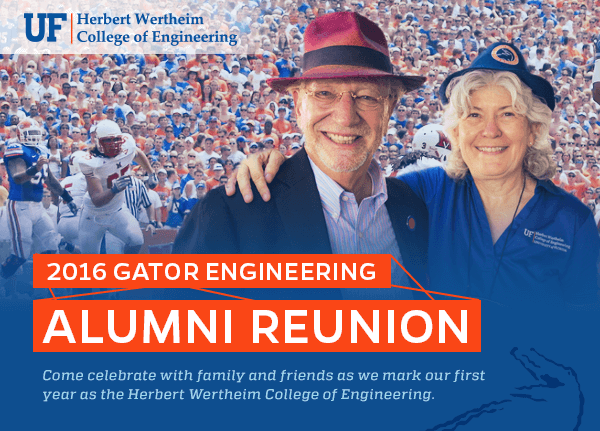
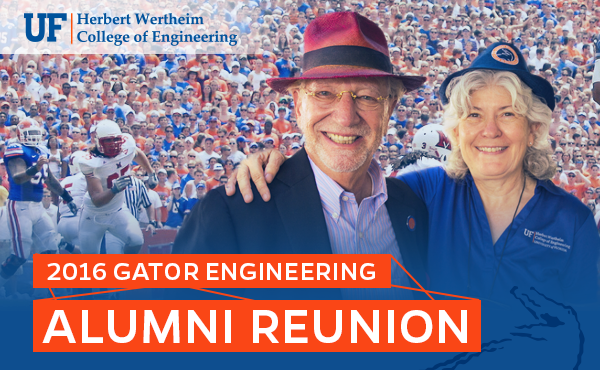
reunion eblast after heather's edits

diff --git a/reunion2016/reunion1-inlined.html b/reunion2016/reunion1-inlined.html
@@ -52,11 +52,11 @@
 			text-decoration: none;
 		}
 		.header1 {
-			padding: 9px 0px 9px 0px;
+			padding: 0px 0px 9px 0px;
 			color:#00529b;
 			font-family:Helvetica, Arial, sans-serif;
-			font-size:42px; 
-			line-height:48px;
+			font-size:48px; 
+			line-height:52px;
 			font-weight:bold;
 		}
 		.header2 {
@@ -157,7 +157,7 @@
 				display:none;
 			}
 			.content-container {
-				padding: 18px 9px;
+				padding: 18px 18px;
 			}
 		 	.content {
 		 		max-width:600px !important;
@@ -167,12 +167,12 @@
 				padding-right:0 !important;
 		 	}
 		 	.header1 {
-		 		font-size:18px;
-		 		line-height:22px;
+		 		font-size:28px;
+		 		line-height:32px;
 		 	}
 		 	.header2 {
-		 		font-size:16px;
-				line-height:20px;
+		 		font-size:20px;
+				line-height:24px;
 		 	}
 		 	.column-content {
 				max-width:480px !important;
@@ -205,29 +205,29 @@
 					</tr>
 					<tr>
 						<td class="img" bgcolor="#FFFFFF" style="padding-top: 0;padding-left: 0;padding-bottom: 0;padding-right: 0;font-family: Helvetica, Arial, sans-serif;font-size: 12px;">
-							<a href="https://www.eng.ufl.edu/news-events/events/gator-engineering-alumni-reunion/" title="2016 Gator Engineering Alumni Reunion" target="_blank" style="color: #fa4616;"><img src="https://www.eng.ufl.edu/eblasts/reunion2016/images/reunion1-header-img.png" align="left" alt="2016 Gator Engineering Alumni Reunion - Come celebrate with family and friends as we mark our first year as the Herbert Wertheim College of Engineering." width="600" height="431" border="0" class="header-image" style="height: auto;display: block;margin: 0;padding: 0;border: 0;max-width: 600px;vertical-align: bottom;outline: none;text-decoration: none;"></a>
+							<a href="https://www.eng.ufl.edu/news-events/events/gator-engineering-alumni-reunion/" title="2016 Gator Engineering Alumni Reunion" target="_blank" style="color: #fa4616;"><img src="https://www.eng.ufl.edu/eblasts/reunion2016/images/reunion1-header-img.png" align="left" alt="2016 Gator Engineering Alumni Reunion - Come celebrate with family and friends as we mark our first year as the Herbert Wertheim College of Engineering." width="600" height="379" border="0" class="header-image" style="height: auto;display: block;margin: 0;padding: 0;border: 0;max-width: 600px;vertical-align: bottom;outline: none;text-decoration: none;"></a>
 						</td>
 					</tr>
 					<tr>
 						<td class="content-container" bgcolor="#FFFFFF" style="padding-top: 0;padding-left: 0;padding-bottom: 0;padding-right: 0;padding: 18px 36px 18px 36px;">
 							<table border="0" width="100%" cellpadding="0" cellspacing="0" style="border-collapse:collapse;">
 								<tr>
-									<td class="header1" style="padding-top: 0;padding-left: 0;padding-bottom: 0;padding-right: 0;padding: 9px 0px 9px 0px;color: #00529b;font-family: Helvetica, Arial, sans-serif;font-size: 42px;line-height: 48px;font-weight: bold;">
+									<td class="header1" style="padding-top: 0;padding-left: 0;padding-bottom: 0;padding-right: 0;padding: 0px 0px 9px 0px;color: #00529b;font-family: Helvetica, Arial, sans-serif;font-size: 48px;line-height: 52px;font-weight: bold;">
 										OCTOBER 15, 2016
 									</td>
 								</tr>
 								<tr>
 									<td class="header2" style="padding-top: 0;padding-left: 0;padding-bottom: 0;padding-right: 0;padding: 0px 0px 9px 0px;color: #00529b;font-family: Helvetica, Arial, sans-serif;font-size: 19px;line-height: 24px;font-weight: bold;">
-										UF vs. Missouri Homecoming Football Game Day<br>
-										Limited football and BBQ ticket packages available.
+										UF vs. Missouri &ndash; Homecoming<br>
+										3 hours before kickoff
 									</td>
 								</tr>
 								<tr>
-									<td align="left" style="padding-top: 10px;padding-bottom: 20px;padding-left: 0;padding-right: 0;">
+									<td align="left" style="padding-top: 10px;padding-bottom: 10px;padding-left: 0;padding-right: 0;">
 										<table border="0" cellspacing="0" cellpadding="0" class="button" style="font-size: 24px;font-family: Helvetica, Arial, sans-serif;font-weight: 700;letter-spacing: 1.5px;text-transform: uppercase;background-color: #ffffff;display: inline-block;">
 											<tr>
 												<td align="center" style="padding-top: 0;padding-left: 0;padding-bottom: 0;padding-right: 0;">
-													<a href="#" target="_blank" style="color: #fa4616;text-decoration: none;"><img src="https://www.eng.ufl.edu/eblasts/reunion2016/images/btn-register.png" width="253" height="34" border="0" alt="REGISTER NOW! &gt;" style="height: auto;"></a>
+													<a href="http://www.cvent.com/d/2fq6sq" target="_blank" style="color: #fa4616;text-decoration: none;"><img src="https://www.eng.ufl.edu/eblasts/reunion2016/images/btn-register.png" width="253" height="34" border="0" alt="REGISTER NOW! &gt;" style="height: auto;"></a>
 												</td>
 											</tr>
 										</table>
@@ -235,11 +235,15 @@
 								</tr>
 								<tr>
 									<td class="content" style="padding-top: 0;padding-left: 0;padding-bottom: 0;padding-right: 0;padding: 9px 0px;font-family: Helvetica, Arial, sans-serif;font-size: 14px;line-height: 22px;color: #5e5e5e;">
-										<p style="margin-top: 0px;">Connect with your fellow Gator Engineers at UF&rsquo;s Homecoming weekend and learn how we are Powering the New Engineer to Transform the Future!</p>
-										<p style="margin-top: 0px;">Join us for BBQ, student displays, face painting and fun for the whole family. Festivities begin 3 hours prior to kickoff and will be held on the J. Wayne Reitz Union North Lawn.</p>
+										<p style="margin-top: 0px;">Come celebrate with your fellow Gator Engineers as we mark our first year as the Herbert Wertheim College of Engineering, and learn how we are Powering the New Engineer to Transform the Future!</p>
+										<p style="margin-top: 0px;">Join us for BBQ, student displays, face painting, balloon animals, lawn games and fun for the whole family. Festivities begin 3 hours prior to kickoff and will be held on the J. Wayne Reitz Union North Lawn.</p>
 									</td>
 								</tr>
-					
+								<tr>
+									<td class="header2" style="padding-top: 0;padding-left: 0;padding-bottom: 0;padding-right: 0;padding: 0px 0px 9px 0px;color: #00529b;font-family: Helvetica, Arial, sans-serif;font-size: 19px;line-height: 24px;font-weight: bold;">
+										<a href="http://www.cvent.com/d/2fq6sq" target="_blank" style="color: #fa4616;">Register here</a> for ticket packages! Quantities are limited.
+									</td>
+								</tr>
 							</table>
 						</td>
 					</tr>
@@ -269,11 +273,11 @@
 				<table width="600" border="0" align="center" cellpadding="0" cellspacing="0" class="container-table" style="width: 600px;border-collapse: collapse;">
 					<tr>
 						<td class="footer-content" align="center" style="padding-top: 0;padding-left: 0;padding-bottom: 0;padding-right: 0;padding: 9px;color: #ffffff;font-family: Helvetica, Arial, sans-serif;font-size: 10px;line-height: 12px;text-transform: uppercase;">
-							<a href="https://www.facebook.com/gatorengineering" style="color: #ffffff;"><img src="https://www.eng.ufl.edu/eblasts/templates/images/icon-facebook.png" width="30" height="30" border="0" title="Facebook" alt="Facebook" style="height: auto;"></a>&nbsp;
-							<a href="https://twitter.com/floridaengineer" style="color: #ffffff;"><img src="https://www.eng.ufl.edu/eblasts/templates/images/icon-twitter.png" width="30" height="30" border="0" title="Twitter" alt="Twitter" style="height: auto;"></a>&nbsp;
+							<a href="https://www.facebook.com/ufwertheim" style="color: #ffffff;"><img src="https://www.eng.ufl.edu/eblasts/templates/images/icon-facebook.png" width="30" height="30" border="0" title="Facebook" alt="Facebook" style="height: auto;"></a>&nbsp;
+							<a href="https://twitter.com/ufwertheim" style="color: #ffffff;"><img src="https://www.eng.ufl.edu/eblasts/templates/images/icon-twitter.png" width="30" height="30" border="0" title="Twitter" alt="Twitter" style="height: auto;"></a>&nbsp;
 							<a href="https://www.youtube.com/user/gatorengineering" style="color: #ffffff;"><img src="https://www.eng.ufl.edu/eblasts/templates/images/icon-youtube.png" width="30" height="30" border="0" title="YouTube" alt="YouTube" style="height: auto;"></a>&nbsp;
-							<a href="https://www.linkedin.com/grp/home?gid=8412066" style="color: #ffffff;"><img src="https://www.eng.ufl.edu/eblasts/templates/images/icon-linkedin.png" width="30" height="30" border="0" title="LinkedIn" alt="LinkedIn" style="height: auto;"></a>&nbsp;
-							<a href="https://www.instagram.com/gatorengineering/" style="color: #ffffff;"><img src="https://www.eng.ufl.edu/eblasts/templates/images/icon-instagram.png" width="30" height="30" border="0" title="Instagram" alt="Instagram" style="height: auto;"></a>&nbsp;
+							<a href="https://www.linkedin.com/edu/school?id=193009" style="color: #ffffff;"><img src="https://www.eng.ufl.edu/eblasts/templates/images/icon-linkedin.png" width="30" height="30" border="0" title="LinkedIn" alt="LinkedIn" style="height: auto;"></a>&nbsp;
+							<a href="https://www.instagram.com/ufwertheim/" style="color: #ffffff;"><img src="https://www.eng.ufl.edu/eblasts/templates/images/icon-instagram.png" width="30" height="30" border="0" title="Instagram" alt="Instagram" style="height: auto;"></a>&nbsp;
 							<a href="https://www.flickr.com/photos/gatorengineering/" style="color: #ffffff;"><img src="https://www.eng.ufl.edu/eblasts/templates/images/icon-flickr.png" width="30" height="30" border="0" title="Flickr" alt="Flickr" style="height: auto;"></a>
 							
 						</td>
@@ -293,7 +297,7 @@
 					</tr>
 					<tr>
 						<td class="footer-content" align="center" style="padding-top: 0;padding-left: 0;padding-bottom: 0;padding-right: 0;padding: 9px;color: #ffffff;font-family: Helvetica, Arial, sans-serif;font-size: 10px;line-height: 12px;text-transform: uppercase;">
-							<a href="https://www.eng.ufl.edu/eblasts/reunion2016/reunion1.html" style="color: #ffffff;">View this email in your browser</a>
+							<a href="%%view_email_url%%" style="color: #ffffff;">View this email in your browser</a>
 						</td>
 					</tr>
 					<tr>
